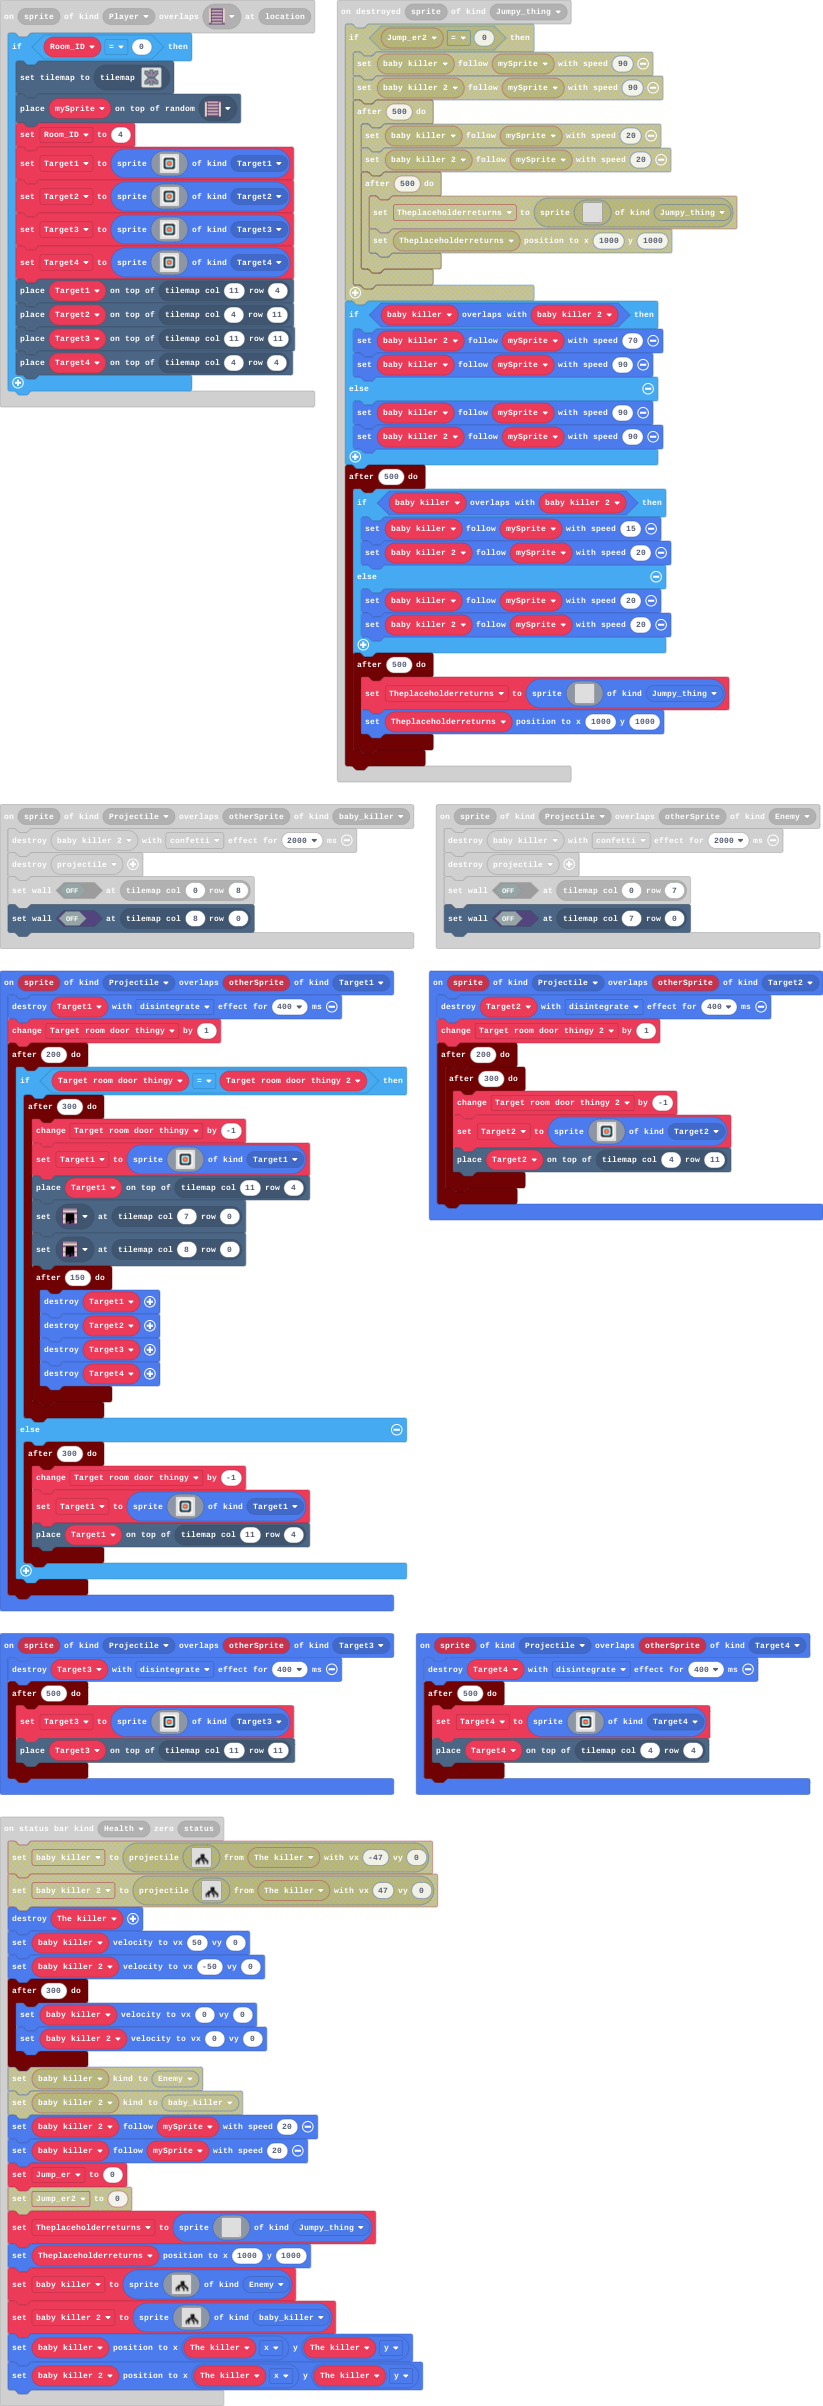
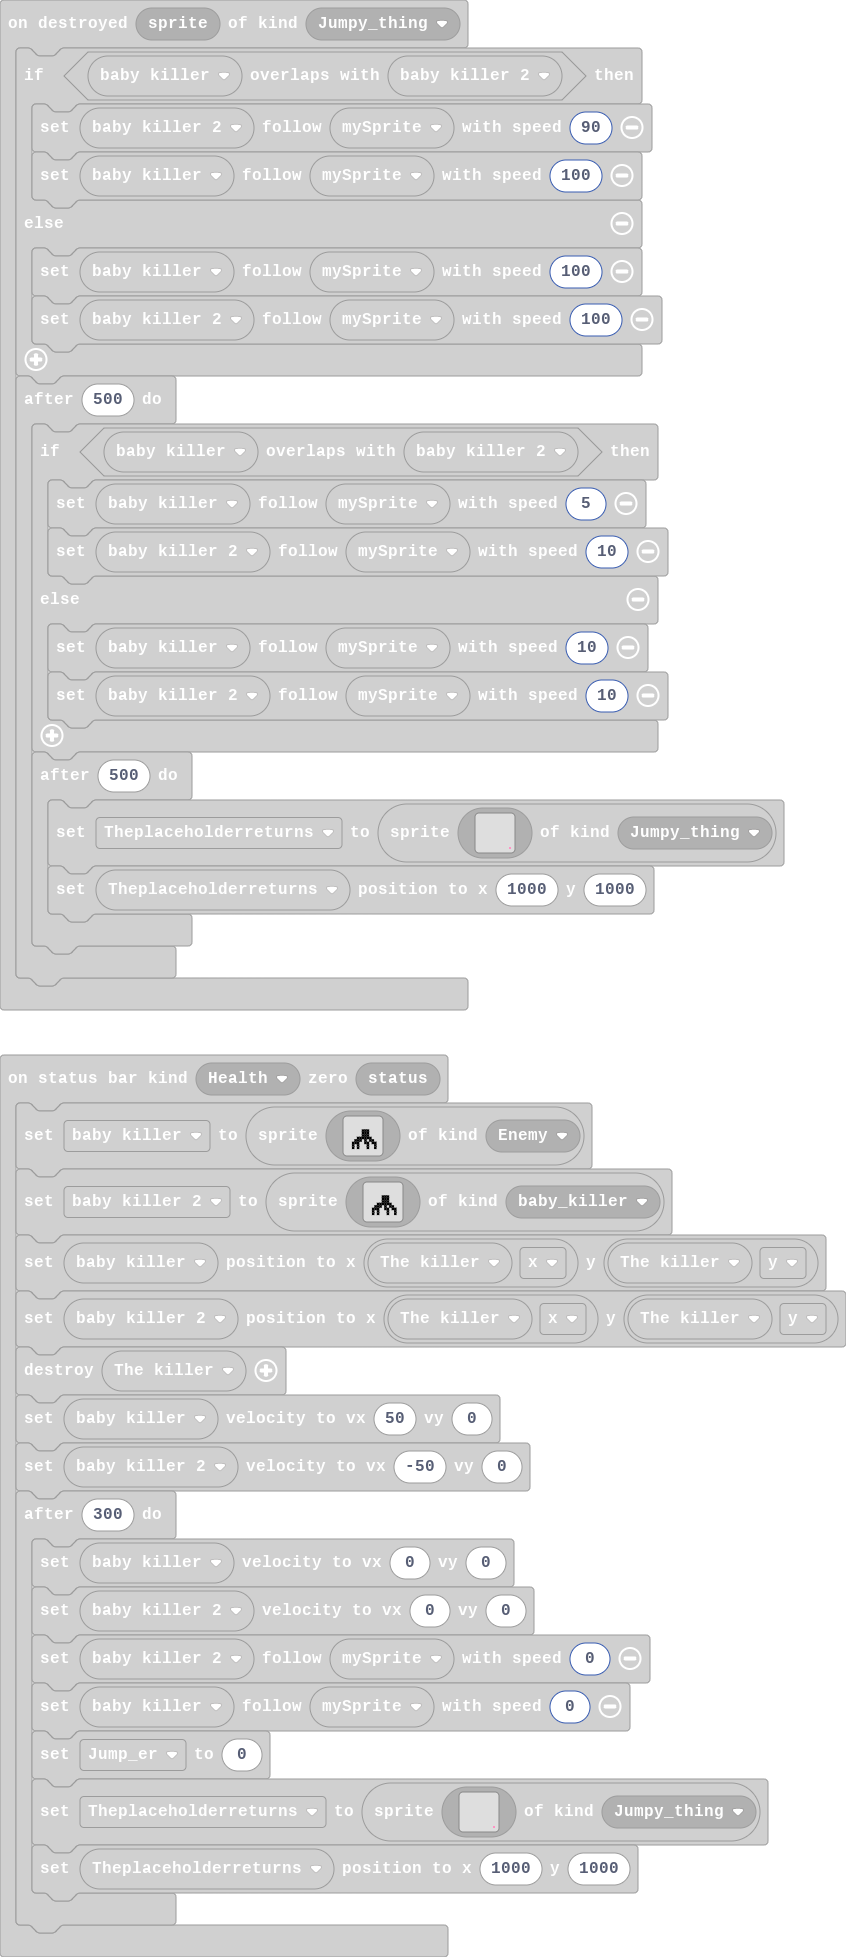
Last update today

diff --git a/main.ts b/main.ts
@@ -478,8 +478,8 @@ statusbars.onZero(StatusBarKind.Health, function (status) {
     timer.after(300, function () {
         baby_killer.setVelocity(0, 0)
         baby_killer_2.setVelocity(0, 0)
-        baby_killer_2.follow(mySprite, 20)
-        baby_killer.follow(mySprite, 20)
+        baby_killer_2.follow(mySprite, 0)
+        baby_killer.follow(mySprite, 0)
         Jump_er = 0
         Theplaceholderreturns = sprites.create(img`
             . . . . . . . . . . . . . . . . 
@@ -514,19 +514,19 @@ scene.onOverlapTile(SpriteKind.Player, sprites.dungeon.stairEast, function (spri
 })
 sprites.onDestroyed(SpriteKind.Jumpy_thing, function (sprite) {
     if (baby_killer.overlapsWith(baby_killer_2)) {
-        baby_killer_2.follow(mySprite, 70)
-        baby_killer.follow(mySprite, 90)
-    } else {
-        baby_killer.follow(mySprite, 90)
         baby_killer_2.follow(mySprite, 90)
+        baby_killer.follow(mySprite, 100)
+    } else {
+        baby_killer.follow(mySprite, 100)
+        baby_killer_2.follow(mySprite, 100)
     }
     timer.after(500, function () {
         if (baby_killer.overlapsWith(baby_killer_2)) {
-            baby_killer.follow(mySprite, 15)
-            baby_killer_2.follow(mySprite, 20)
+            baby_killer.follow(mySprite, 5)
+            baby_killer_2.follow(mySprite, 10)
         } else {
-            baby_killer.follow(mySprite, 20)
-            baby_killer_2.follow(mySprite, 20)
+            baby_killer.follow(mySprite, 10)
+            baby_killer_2.follow(mySprite, 10)
         }
         timer.after(500, function () {
             Theplaceholderreturns = sprites.create(img`
